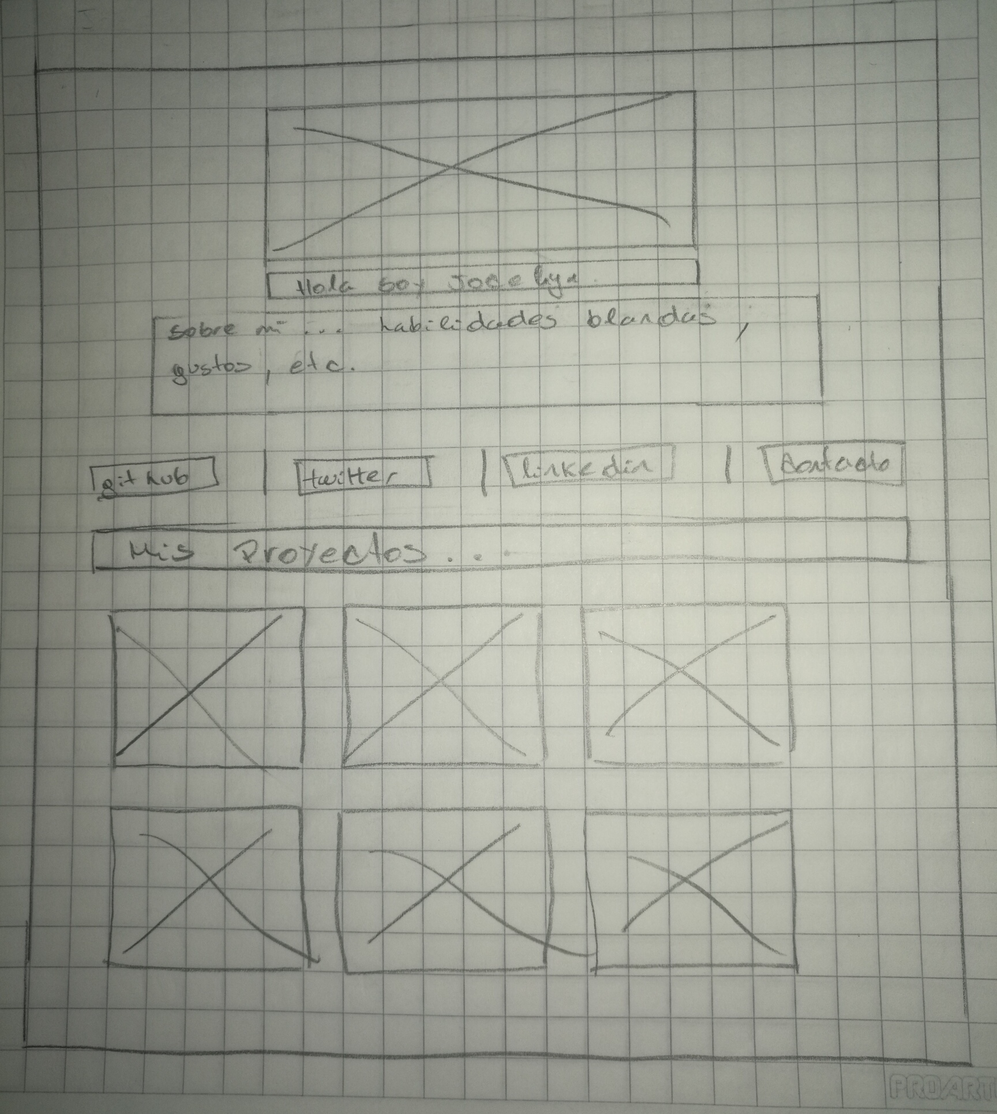
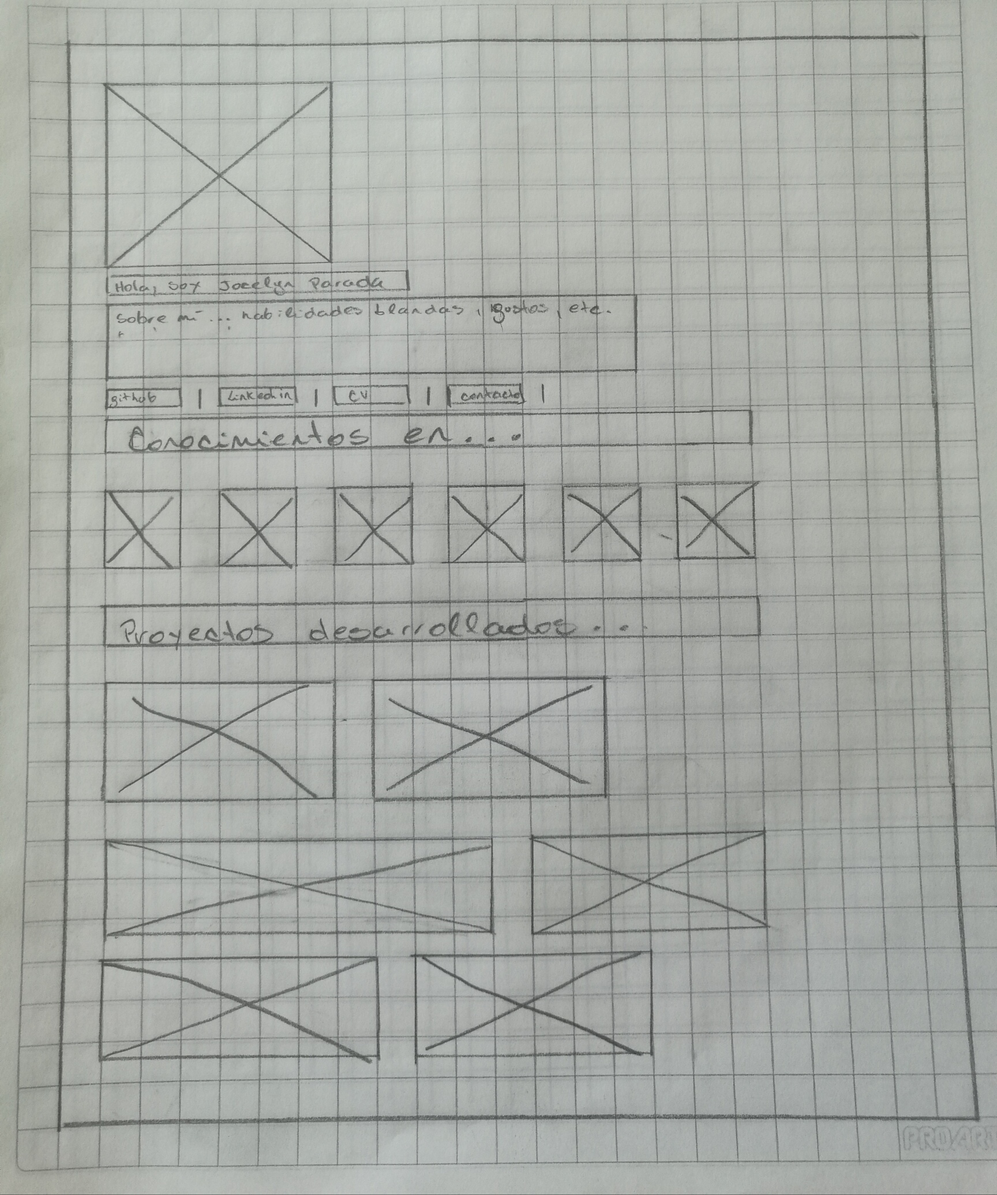
Cambiando sketch

diff --git a/readme.md b/readme.md
@@ -8,4 +8,4 @@
 
 ## Sketch
 
-![img](https://image.ibb.co/cMVuRH/sketch.jpg)
+![img](https://image.ibb.co/mat4BH/sketch.jpg)
